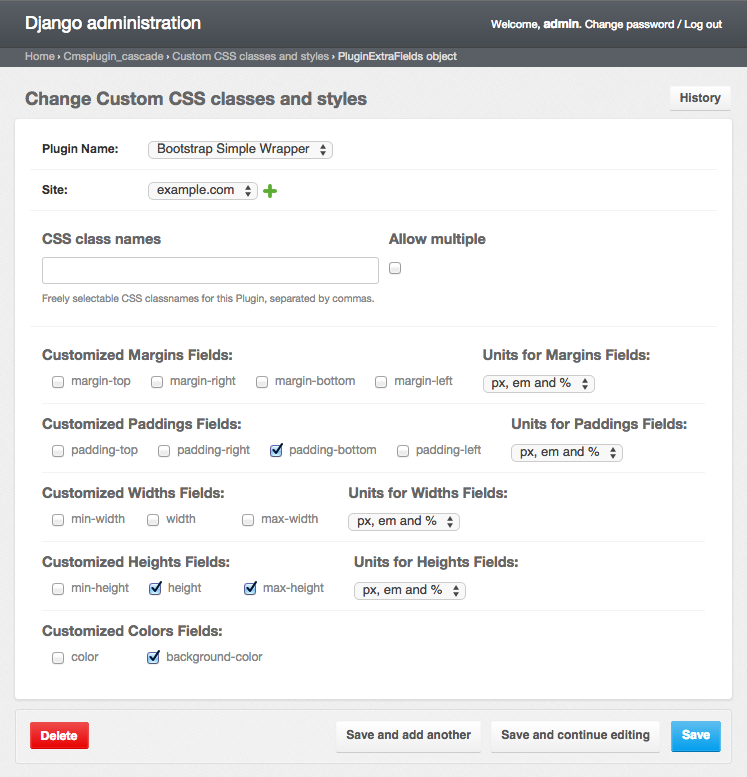
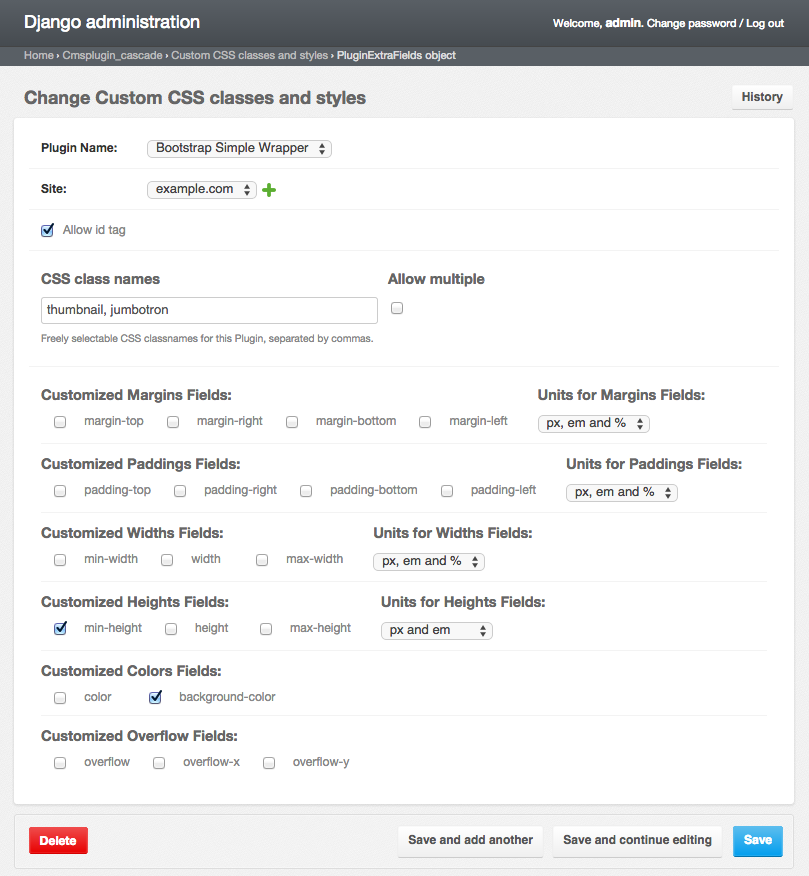
Updated docs to last changes

Changed region(s): [[0.0308, 0.4324, 0.9853, 0.9884], [0.0, 0.0, 1.0, 0.4015]]

diff --git a/docs/source/customize-styles.rst b/docs/source/customize-styles.rst
@@ -4,62 +4,67 @@
 Customize CSS classes and inline styles
 =======================================
 
-Plugins shipped with **djangocms-cascade** offer a basic set of CSS classes as prepared by the
-chosen CSS framework. For real world sites, these offered classes normally are far too little.
+Plugins shipped with **djangocms-cascade** offer a basic set of CSS classes as declared by the
+chosen CSS framework. These offered classes normally do not fulfill the requirements for real world
+sites.
 
 While **djangocms-cascade** is easily extendible, it would be overkill to re-implement the available
 plugins, just to add an extra field for a customized CSS class or an extra inline style. For that
 purpose, one can add a set of potential CSS classes and potential CSS inline styles for Cascade
-plugins, enabled for this feature.
+plugins, enabled for this feature. Moreover, this feature can be adopted individually on a per-site
+base.
 
 
-Manage extra fields
+Configure a Cascade Plugins to accept extra fields
+==================================================
+
+Configuring a plugin to allow an HTML id tag, an extra CSS classes or some inline styles is very
+easy. In the projects ``settings.py``, add a list of Cascade plugins, which shall be extendible.
+It is a good idea to enable at least these two plugins for extendibility:
+
+.. code-block:: python
+
+	CMSPLUGIN_CASCADE_WITH_EXTRAFIELDS = ['BootstrapRowPlugin', 'SimpleWrapperPlugin']
+
+
+Enable extra fields
 ===================
 
-To enable this feature, navigate to **Home › Cmsplugin_cascade › Custom CSS classes and styles**
-in the administration backend and click onto the **Add Custom CSS classes styles** button.
+To enable this feature, in the administration backend navigate to
+**Home › Cmsplugin_cascade › Custom CSS classes and styles**  and click onto the
+**Add Custom CSS classes styles** button.
 
-From the field named “Plugin Name”, select **Bootstrap Simple Wrapper**. From the fields named
-“Site”, select the current site.
+From the field named “Plugin Name”, for instance select **Bootstrap Simple Wrapper**. Then, from the
+field named “Site”, select the current site.
 
 |customize-styles|
 
 .. |customize-styles| image:: /_static/customize-styles.png
 
-In the field named “CSS class names” you may specify arbitrary CSS classes separated by commas.
-One of these CSS classes then can be added to the Cascade plugin **Bootstrap Simple Wrapper**. If
-more than one class shall be addable, activate the checkbox named “Allow multiple”.
+Allow ID
+--------
+With “Allow id tag” enabled, an extra field will appear on the named plugin editor. There a user
+can add any arbitrary name which will be rendered as ``id="any_name"`` for the corresponding plugin
+instance.
 
-Additionally you may activate all kinds of CSS inline styles by clicking on the named checkbox. For
+CSS classes
+-----------
+In the field named “CSS class names”, the administrator may specify arbitrary CSS classes separated
+by commas. One of these CSS classes then can be added to the corresponding Cascade plugin. If
+more than one CSS class shall be addable concurrently, activate the checkbox named “Allow multiple”.
+
+CSS inline styles
+-----------------
+The administrator may activate all kinds of CSS inline styles by clicking on the named checkbox. For
 settings describing distances, additionally specify the allowed units to be used.
 
-Now, if you choose a "Simple Wrapper Plugin" inside the Structure View, you will see an extra 
-select field to chose the CSS class and some input fields to enter extra margins, paddings or
+Now, if a user opens the corresponding plugin inside the **Structure View**, he will see an extra 
+select field to chose the CSS class and some input fields to enter say, extra margins, heights or
 whatever has been activated.
 
 Use it rarely, use it wise
---------------------------
-
+..........................
 Adding too many styling fields to a plugin can mess up any web project. Therefore be advised to use
 this feature rarely and wise. If many people have write access to plugins, set extra permissions on
 this table, in order to not mess things up. For instance, it rarely makes sense to activate
 ``min-width``, ``width`` and ``max-width``.
-
-
-Programming Cascade plugins with extra fields
-=============================================
-
-Enabling a plugin to allow any extra CSS class or inline style is very easy and straight forward.
-Simple add a mixin class to your existing plugin:
-
-.. code-block:: python
-
-	from cmsplugin_cascade.plugin_base import BootstrapPluginBase
-	from cmsplugin_cascade.mixins import ExtraFieldsMixin
-	
-	class MySpecialPlugin(ExtraFieldsMixin, BootstrapPluginBase):
-	    name = _("My special Plugin")
-	    # other members as usual
-
-If you override the classmethods ``get_css_classes`` and ``get_inline_styles`` ensure that you
-call its super-method and hand through its returned values.

diff --git a/docs/source/sharable-fields.rst b/docs/source/sharable-fields.rst
@@ -1,0 +1,34 @@
+============================
+Working with sharable fields
+============================
+
+Sometime you'd want to remember sizes and other options for rendering an image across the project.
+In order to not have to do this jobs for each managed image, you can remember these settings using a
+name of your choice and controllable in a special section of the administration backend.
+
+Now, whenever someone adds a new instance using this plugin, a select box with these remembered
+settings appears. He then can chose from one of the remembered settings, which frees him to
+reenter all the values.
+
+Moreover, by changing one of these remembered settings in the administration backend at
+**Home › Cmsplugin_cascade › Shared between Plugins**, one can change the size and other options for
+all images with these settings applied to them.
+
+
+Configure a Cascade Plugins to optionally share some fields
+===========================================================
+
+Configuring a plugin to share specific fields with other plugins of the same type is very easy.
+In the projects ``settings.py``, add a dictionary of Cascade plugins, with a list of fields which
+shall be sharable. For example, with this settings, the image plugin can configured to share its
+sizes and rendering options among each other.
+
+.. code-block:: python
+
+	CMSPLUGIN_CASCADE_WITH_SHARABLES = {
+	    'BootstrapImagePlugin': ('image-shapes', 'image-width-responsive', 'image-width-fixed', 'image-height', 'resize-options',),
+	}
+
+
+Control some named settings
+===========================

diff --git a/docs/source/customized-plugins.rst b/docs/source/customized-plugins.rst
@@ -30,7 +30,7 @@ This plugin is very simple and just renders static content which has been declar
 	
 	plugin_pool.register_plugin(StylishPlugin)
 
-Ff the editor form pops up for this plugin a dumb message appears: “There are no further settings
+If the editor form pops up for this plugin, a dumb message appears: “There are no further settings
 for this plugin”. This is because no editable fields have been added to that plugin yet.
 
 
@@ -38,10 +38,10 @@ Customize Stored Data
 =====================
 
 In order to make the plugin remember its settings and other optional data, the programmer must add
-a list of special form fields to its plugin. These fields then are used to build the editor for
-this DjangoCMS plugin.
+a list of special form fields to its plugin. These fields then are used to auto-generate the editor
+for this DjangoCMS plugin.
 
-Each of those form fields handle a special field value, or in some cases a list of field values.
+Each of those form fields handle a special field value, or in some cases, a list of field values.
 They all require a widget, which is used when rendering the editors form.
 
 Lets add a simple selector to choose between a red and a green color. Do this by adding a

diff --git a/docs/source/installation.rst b/docs/source/installation.rst
@@ -147,7 +147,7 @@ To replace Bootstrap's jQuery code against the very popular `Angular UI Bootstra
 
 .. code-block:: python
 
-	CMS_CASCADE_BOOTSTRAP3_TEMPLATE_DIR = 'cascade/angular-ui'
+	CMSPLUGIN_CASCADE_BOOTSTRAP3_TEMPLATE_DIR = 'cascade/angular-ui'
 
 to your ``settings.py``. This will load the rendering templates created for AngularJS from a
 different directory.

diff --git a/docs/source/index.rst b/docs/source/index.rst
@@ -31,7 +31,7 @@ Contents:
   tutorial
   link-plugin
   bootstrap3/grid
-  bootstrap3/picture
+  bootstrap3/image-picture
   bootstrap3/navbar
   customized-plugins
   customize-styles
